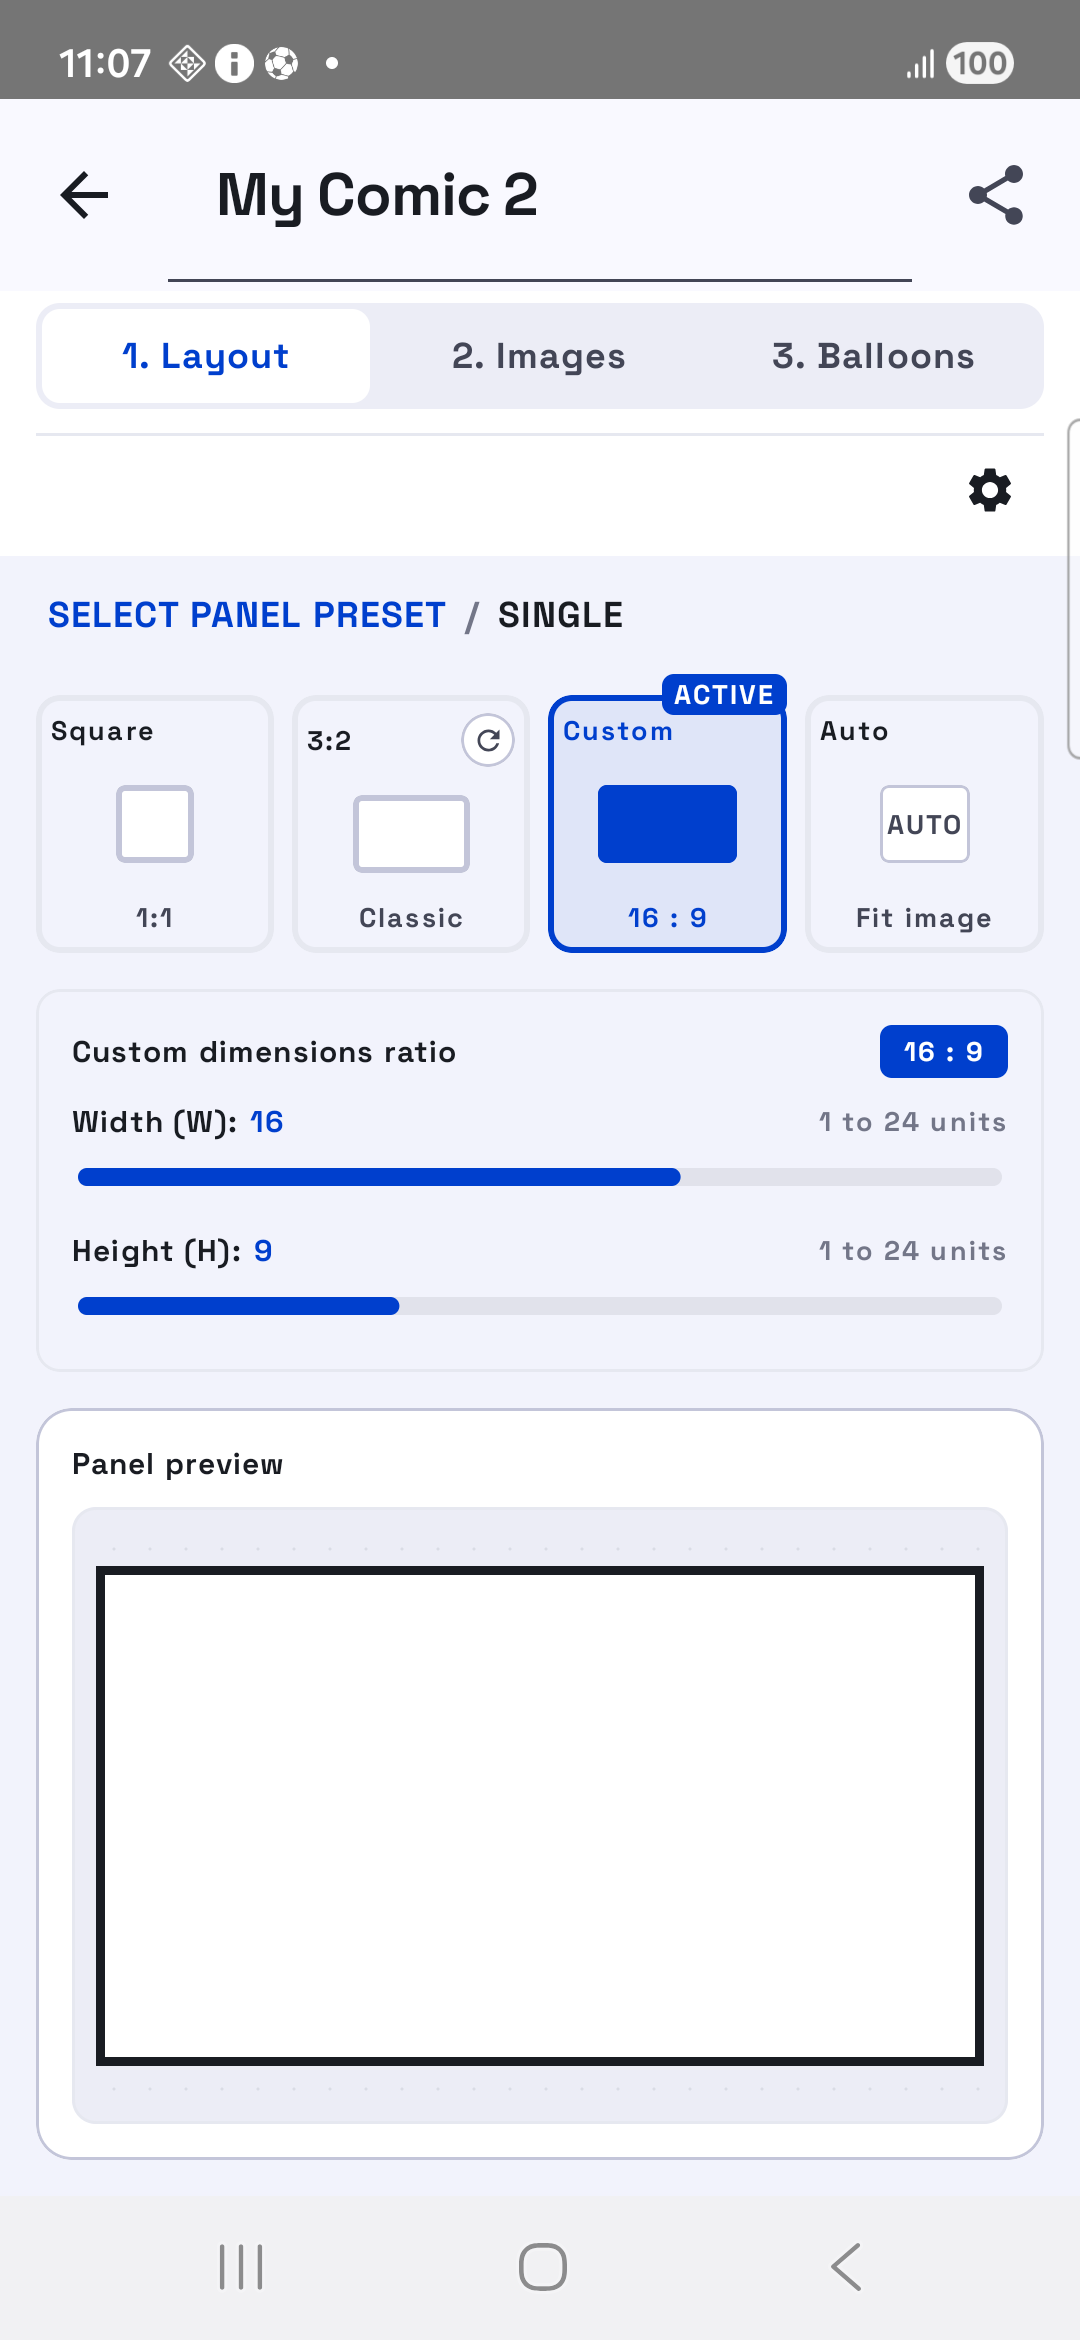
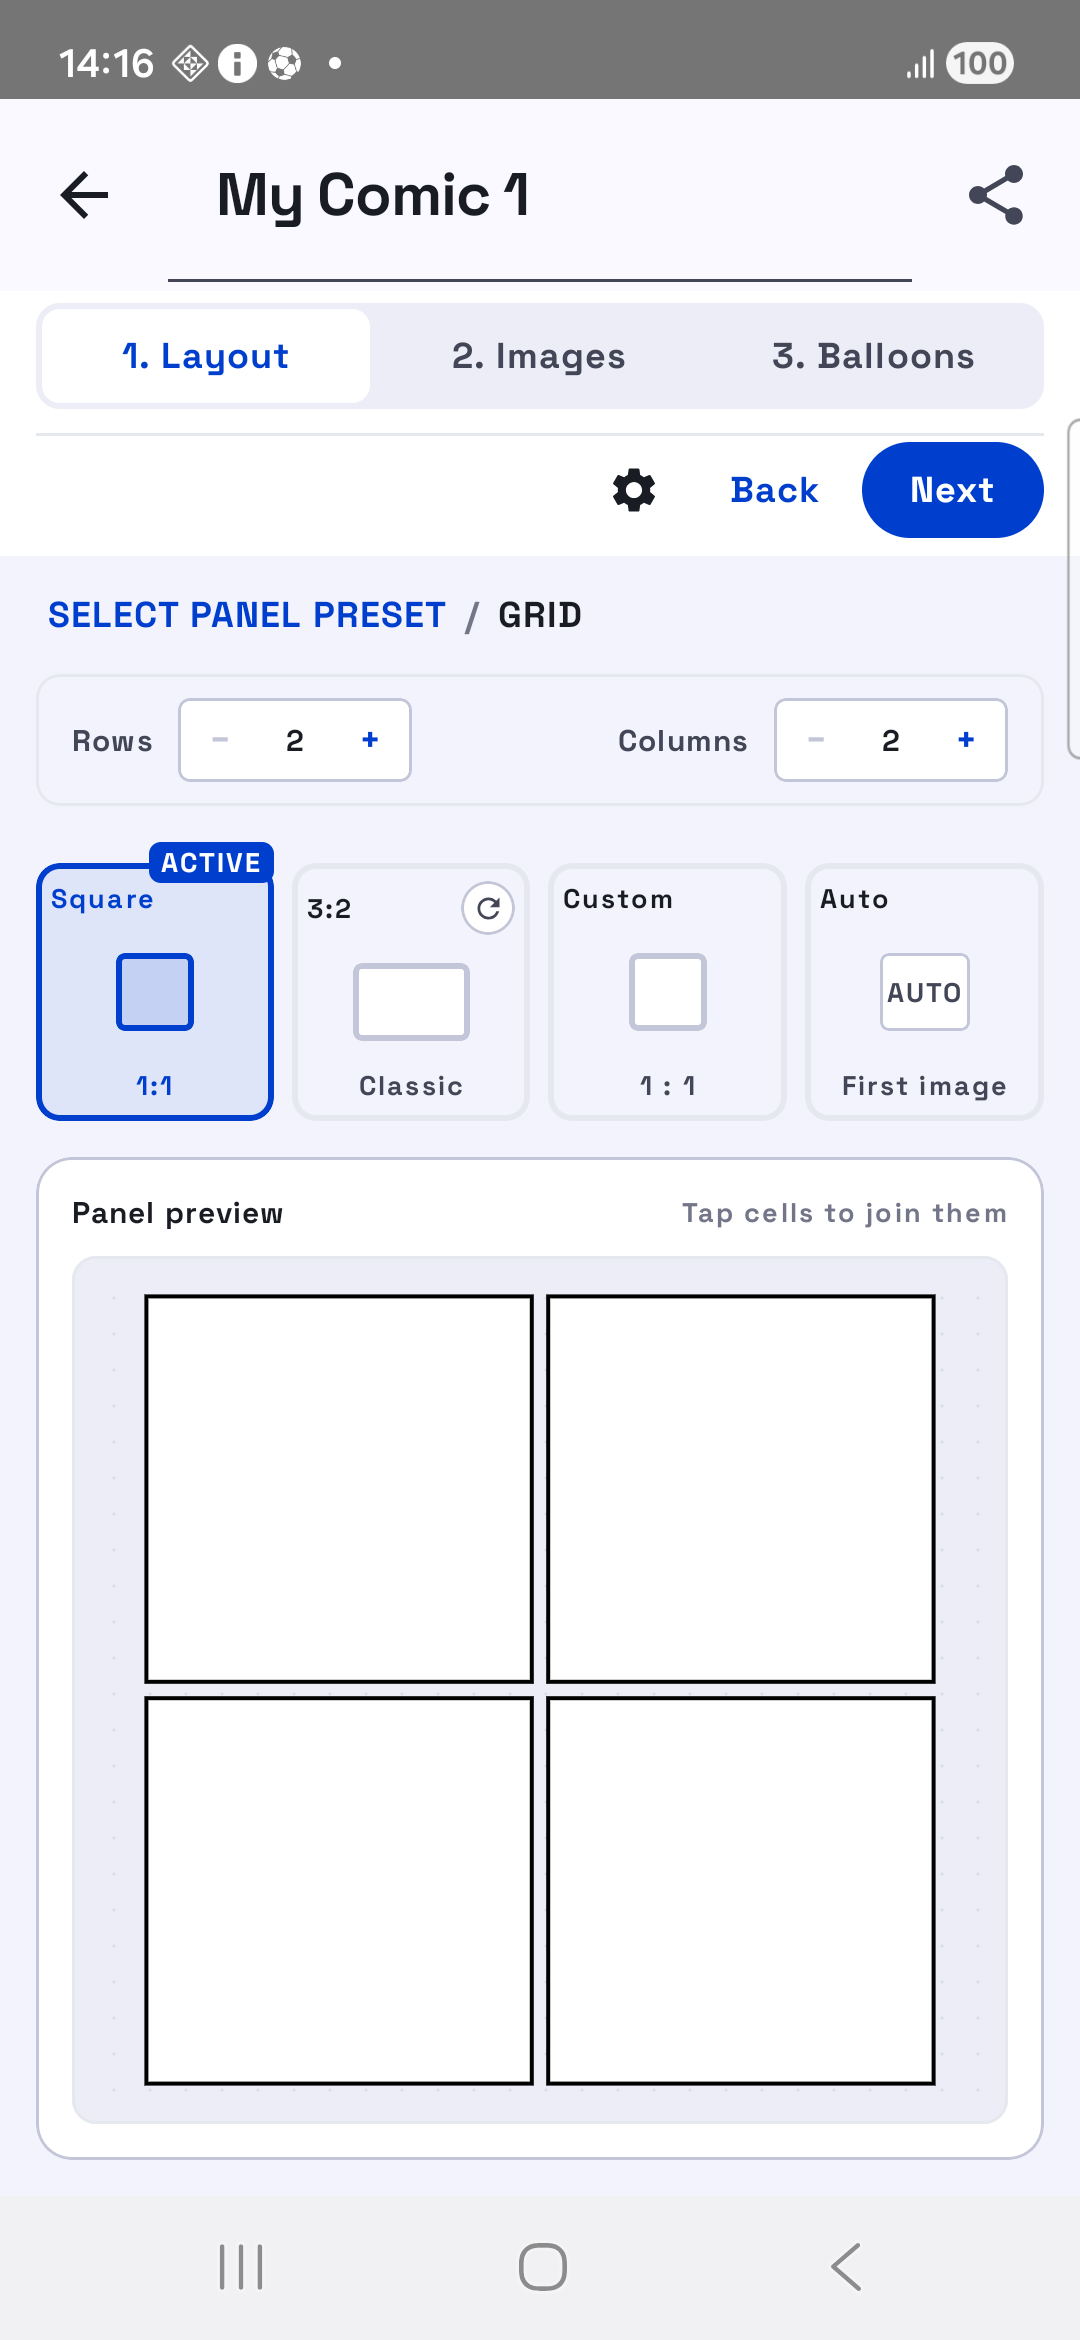
back and next button

diff --git a/app/src/main/java/com/ballooner/ui/comiceditor/ComicEditorScreen.kt b/app/src/main/java/com/ballooner/ui/comiceditor/ComicEditorScreen.kt
@@ -6,9 +6,12 @@ import androidx.compose.foundation.horizontalScroll
 import androidx.compose.foundation.layout.Arrangement
 import androidx.compose.foundation.layout.Box
 import androidx.compose.foundation.layout.Column
+import androidx.compose.foundation.layout.PaddingValues
 import androidx.compose.foundation.layout.Row
+import androidx.compose.foundation.layout.Spacer
 import androidx.compose.foundation.layout.fillMaxSize
 import androidx.compose.foundation.layout.fillMaxWidth
+import androidx.compose.foundation.layout.height
 import androidx.compose.foundation.layout.heightIn
 import androidx.compose.foundation.layout.padding
 import androidx.compose.foundation.layout.size
@@ -76,6 +79,11 @@ fun ComicEditorScreen(
                 step = state.step,
                 onSelectStep = actions::selectStep,
                 onOptions = { showOptions = true },
+                // The preset's options are a decision in progress: they are taken or dropped as
+                // a whole, so they carry their own way forward and back.
+                inLayoutOptions = state.step == EditorStep.LAYOUT && state.layoutKind != null,
+                onBack = actions::discardLayoutKind,
+                onNext = { actions.selectStep(EditorStep.PLACEMENT) },
             )
             // The workspace sits on its own ground so the chrome above it reads as a separate
             // surface rather than as the top of the canvas.
@@ -103,7 +111,7 @@ fun ComicEditorScreen(
                         image = state.comic.panels.firstOrNull()?.image,
                         images = images,
                         onChange = actions::setSizing,
-                        onBack = actions::closeLayoutKind,
+                        onBack = actions::discardLayoutKind,
                     )
                     return@Column
                 }
@@ -120,7 +128,7 @@ fun ComicEditorScreen(
                         onStrip = { across, count ->
                             if (across) actions.applyPreset(1, count) else actions.applyPreset(count, 1)
                         },
-                        onBack = actions::closeLayoutKind,
+                        onBack = actions::discardLayoutKind,
                     )
                     return@Column
                 }
@@ -136,7 +144,7 @@ fun ComicEditorScreen(
                         onToggleSelection = actions::toggleSelection,
                         onMerge = actions::mergeSelection,
                         onUnmerge = actions::unmergeSelection,
-                        onBack = actions::closeLayoutKind,
+                        onBack = actions::discardLayoutKind,
                     )
                     return@Column
                 }
@@ -150,7 +158,7 @@ fun ComicEditorScreen(
                         onMoveCutEnd = actions::moveCutEnd,
                         onEndCutDrag = actions::endCutDrag,
                         onUndo = actions::undo,
-                        onBack = actions::closeLayoutKind,
+                        onBack = actions::discardLayoutKind,
                     )
                     return@Column
                 }
@@ -202,6 +210,9 @@ private fun EditorHeader(
     step: EditorStep,
     onSelectStep: (EditorStep) -> Unit,
     onOptions: () -> Unit,
+    inLayoutOptions: Boolean,
+    onBack: () -> Unit,
+    onNext: () -> Unit,
 ) {
     val scheme = MaterialTheme.colorScheme
     Column(
@@ -214,9 +225,27 @@ private fun EditorHeader(
         HorizontalDivider(color = scheme.surfaceContainerHigh)
         Row(
             modifier = Modifier.fillMaxWidth(),
-            horizontalArrangement = Arrangement.End,
+            horizontalArrangement = Arrangement.spacedBy(4.dp),
             verticalAlignment = Alignment.CenterVertically,
         ) {
+            if (inLayoutOptions) {
+                TextButton(
+                    onClick = onBack,
+                    modifier = Modifier.height(32.dp),
+                    contentPadding = PaddingValues(horizontal = 12.dp),
+                ) {
+                    Text("Back", style = MaterialTheme.typography.labelLarge)
+                }
+                Button(
+                    onClick = onNext,
+                    modifier = Modifier.height(32.dp),
+                    contentPadding = PaddingValues(horizontal = 16.dp),
+                ) {
+                    Text("Next", style = MaterialTheme.typography.labelLarge)
+                }
+            }
+            // Keeps the Options gear at the far end whether or not the preset buttons are there.
+            Spacer(modifier = Modifier.weight(1f))
             IconButton(onClick = onOptions, modifier = Modifier.size(36.dp)) {
                 Icon(
                     imageVector = Icons.Default.Settings,

diff --git a/app/src/main/java/com/ballooner/ui/comiceditor/ComicEditorViewModel.kt b/app/src/main/java/com/ballooner/ui/comiceditor/ComicEditorViewModel.kt
@@ -81,6 +81,11 @@ class ComicEditorViewModel @Inject constructor(
     private var pending: Comic? = null
     private var beforeDrag: Comic? = null
 
+    // Opening a preset's options is not choosing it, so the comic it was opened from is kept
+    // until the user moves on, and everything the options did is thrown away if they go back.
+    private var beforeLayoutKind: Comic? = null
+    private var undoDepthBeforeLayoutKind = 0
+
     // Only ever counts up, so deleting a balloon cannot hand its id to a different one while the
     // undo stack and the selection still refer to it.
     private var nextBalloonId = 1L
@@ -93,14 +98,19 @@ class ComicEditorViewModel @Inject constructor(
         }
     }
 
-    fun selectStep(step: EditorStep) = updateContent {
-        it.copy(
-            step = step,
-            layoutKind = null,
-            selection = emptyList(),
-            activePanel = null,
-            focusedPanel = null,
-        )
+    fun selectStep(step: EditorStep) {
+        // Moving on to another step accepts whatever a preset's options changed. Only going back
+        // to the picker throws it away.
+        beforeLayoutKind = null
+        updateContent {
+            it.copy(
+                step = step,
+                layoutKind = null,
+                selection = emptyList(),
+                activePanel = null,
+                focusedPanel = null,
+            )
+        }
     }
 
     /** Fills the canvas with one panel. Focus is a way of looking, not a change to the comic. */
@@ -344,6 +354,9 @@ class ComicEditorViewModel @Inject constructor(
      * A comic that is already the chosen kind keeps whatever the user has made of it.
      */
     fun selectLayoutKind(kind: LayoutKind) {
+        val opened = contentOrNull()?.comic ?: return
+        beforeLayoutKind = opened
+        undoDepthBeforeLayoutKind = undoStack.size
         updateContent { it.copy(layoutKind = kind).withSelection(emptyList()) }
         val comic = contentOrNull()?.comic ?: return
         if (layoutKindOf(comic) == kind) return
@@ -369,9 +382,23 @@ class ComicEditorViewModel @Inject constructor(
         }
     }
 
-    /** Returns to the preset picker, leaving the comic as it is. */
-    fun closeLayoutKind() = updateContent {
-        it.copy(layoutKind = null).withSelection(emptyList())
+    /**
+     * Returns to the preset picker without choosing the preset, so the comic goes back to what it
+     * was before its options were opened and the picker still shows the kind it already was.
+     */
+    fun discardLayoutKind() {
+        val origin = beforeLayoutKind
+        beforeLayoutKind = null
+        pending = null
+        while (undoStack.size > undoDepthBeforeLayoutKind) undoStack.removeLast()
+        val content = contentOrNull() ?: return
+        val comic = origin ?: content.comic
+        // Set rather than committed: undoing back into options the user has left would be a step
+        // into a place they cannot see.
+        state.value = content
+            .copy(comic = comic, layoutKind = null, warning = null, canUndo = undoStack.isNotEmpty())
+            .withSelection(emptyList())
+        if (comic != content.comic) save(comic)
     }
 
     fun setRowWeights(weights: List<Float>) = withGrid { it.copy(rowWeights = weights) }

diff --git a/app/src/test/java/com/ballooner/ui/comiceditor/SinglePanelLayoutTest.kt b/app/src/test/java/com/ballooner/ui/comiceditor/SinglePanelLayoutTest.kt
@@ -20,6 +20,7 @@ import kotlinx.coroutines.ExperimentalCoroutinesApi
 import kotlinx.coroutines.test.advanceUntilIdle
 import kotlinx.coroutines.test.runTest
 import org.junit.Assert.assertEquals
+import org.junit.Assert.assertFalse
 import org.junit.Assert.assertNull
 import org.junit.Assert.assertTrue
 import org.junit.Rule
@@ -93,18 +94,72 @@ class SinglePanelLayoutTest {
     }
 
     @Test
-    fun `going back to the picker leaves the comic alone`() = runTest {
+    fun `going back to the picker throws away what the preset changed`() = runTest {
         val viewModel = editorFor(comic(Grid(rows = 2, columns = 2)))
         advanceUntilIdle()
-        viewModel.selectLayoutKind(LayoutKind.GRID)
-        advanceUntilIdle()
-        val opened = content(viewModel).comic
+        val before = content(viewModel).comic
 
-        viewModel.closeLayoutKind()
+        viewModel.selectLayoutKind(LayoutKind.SINGLE)
+        advanceUntilIdle()
+        viewModel.discardLayoutKind()
         advanceUntilIdle()
 
         assertNull(content(viewModel).layoutKind)
-        assertEquals(opened, content(viewModel).comic)
+        assertEquals(before, content(viewModel).comic)
+    }
+
+    @Test
+    fun `going back to the picker leaves the preset the comic already was active`() = runTest {
+        val viewModel = editorFor(comic(Grid(rows = 2, columns = 2)))
+        advanceUntilIdle()
+
+        viewModel.selectLayoutKind(LayoutKind.SINGLE)
+        advanceUntilIdle()
+        viewModel.discardLayoutKind()
+        advanceUntilIdle()
+
+        assertEquals(LayoutKind.GRID, layoutKindOf(content(viewModel).comic))
+    }
+
+    @Test
+    fun `going back to the picker throws away a shape chosen in the options`() = runTest {
+        val viewModel = editorFor(comic(Grid(1, 1)))
+        advanceUntilIdle()
+        val before = content(viewModel).comic
+
+        viewModel.selectLayoutKind(LayoutKind.SINGLE)
+        viewModel.setSizing(PageSizing.Ratio(WIDE_RATIO))
+        advanceUntilIdle()
+        viewModel.discardLayoutKind()
+        advanceUntilIdle()
+
+        assertEquals(before, content(viewModel).comic)
+    }
+
+    @Test
+    fun `going back to the picker leaves nothing of the preset to undo`() = runTest {
+        val viewModel = editorFor(comic(Grid(rows = 2, columns = 2)))
+        advanceUntilIdle()
+
+        viewModel.selectLayoutKind(LayoutKind.SINGLE)
+        advanceUntilIdle()
+        viewModel.discardLayoutKind()
+        advanceUntilIdle()
+
+        assertFalse(content(viewModel).canUndo)
+    }
+
+    @Test
+    fun `moving on to the images step keeps what the preset changed`() = runTest {
+        val viewModel = editorFor(comic(Grid(rows = 2, columns = 2)))
+        advanceUntilIdle()
+
+        viewModel.selectLayoutKind(LayoutKind.SINGLE)
+        advanceUntilIdle()
+        viewModel.selectStep(EditorStep.PLACEMENT)
+        advanceUntilIdle()
+
+        assertEquals(LayoutKind.SINGLE, layoutKindOf(content(viewModel).comic))
     }
 
     @Test

diff --git a/app/src/main/java/com/ballooner/ui/comiceditor/ComicEditorActions.kt b/app/src/main/java/com/ballooner/ui/comiceditor/ComicEditorActions.kt
@@ -18,7 +18,7 @@ interface ComicEditorActions {
     fun unmergeSelection()
     fun applyPreset(rows: Int, columns: Int)
     fun selectLayoutKind(kind: LayoutKind)
-    fun closeLayoutKind()
+    fun discardLayoutKind()
     fun setSizing(sizing: PageSizing)
     fun setStyle(style: ComicStyle)
     fun startBoundaryDrag()
@@ -69,7 +69,7 @@ fun ComicEditorViewModel.asActions(): ComicEditorActions = object : ComicEditorA
     override fun unmergeSelection() = this@asActions.unmergeSelection()
     override fun applyPreset(rows: Int, columns: Int) = this@asActions.applyPreset(rows, columns)
     override fun selectLayoutKind(kind: LayoutKind) = this@asActions.selectLayoutKind(kind)
-    override fun closeLayoutKind() = this@asActions.closeLayoutKind()
+    override fun discardLayoutKind() = this@asActions.discardLayoutKind()
     override fun setSizing(sizing: PageSizing) = this@asActions.setSizing(sizing)
     override fun setStyle(style: ComicStyle) = this@asActions.setStyle(style)
     override fun startBoundaryDrag() = this@asActions.startBoundaryDrag()

diff --git a/.github/instructions/ui-vocabulary.instructions.md b/.github/instructions/ui-vocabulary.instructions.md
@@ -49,8 +49,9 @@ Use **screen** only for a full navigation destination. Use **dialog** for modal 
 - **Comic title field** (`EditableTitle`): The editable comic name in the Editor top bar.
 - **Editor toolbar**: The band below the Editor top bar, on its own paper surface, containing the
   Step switch and — under a divider — the **Editor action row**.
-- **Editor action row**: The row of icon buttons beneath the Step switch, right-aligned. Holds the
-  Options button.
+- **Editor action row**: The row beneath the Step switch. The Options button sits at its right
+  end; while Preset options are open the Preset back button and Preset next button sit at its
+  left.
 - **Workspace**: Everything below the Editor toolbar. It sits on a tinted ground so the toolbar
   reads as a separate surface above it rather than as the top of the Canvas.
 - **Canvas**: The editing area that displays the Page. The Editor toolbar and Comic kit are
@@ -96,8 +97,15 @@ the parts owned by later steps are shown dimmed and are not interactive.
   **Custom**. Read back off the comic rather than stored.
 - **Preset options**: The second view of the Layout step, opened by tapping a Layout preset card.
   It is a continuation of the Preset picker, not an overlay: same ground, no frame of its own.
-  Reached and left by the **Breadcrumb**, which continues the picker's heading —
-  "Select panel preset / Single" — with the leading part tappable to go back.
+  Reached by tapping a card, and left by the **Preset next button**, the **Preset back button**,
+  or the **Breadcrumb**, which continues the picker's heading — "Select panel preset / Single" —
+  with the leading part tappable to go back.
+- **Preset next button**: The "Next" button at the left of the Editor action row while Preset
+  options are open. Takes the preset and its options and moves to the Placement step, exactly as
+  tapping that step does.
+- **Preset back button**: The "Back" button beside it. Returns to the Preset picker without
+  choosing the preset, throwing away everything the options changed, so the comic and its active
+  preset are as they were before the options opened. The Breadcrumb does the same.
 - **Single panel shape**: The Single preset's options. Four **Shape tiles** — **Square**,
   **Ratio**, **Custom**, **Auto** — over a **Panel preview**.
 - **Strip options**: The Strip preset's options. An **Orientation** pair of icon buttons and a

diff --git a/docs/design/comic-creation-workflow.md b/docs/design/comic-creation-workflow.md
@@ -71,6 +71,12 @@ rather than stored alongside it. Tapping a card continues into that preset's opt
 ground — no frame, no overlay — with a breadcrumb that continues the heading, "Select panel
 preset / Single", whose leading part goes back.
 
+Opening a preset's options is not choosing it. The options are taken as a whole by moving on to
+the Images step — with **Next**, or by tapping the step itself — and thrown away as a whole by
+going back, with **Back** or with the breadcrumb, which leaves the comic as the picker found it
+and the preset it already was still active. So a user can look inside every preset in turn
+without changing anything.
+
 ### Panel shape, and why there is no page shape
 
 The user never chooses a page shape. The page is always one unit wide, and its height is derived
